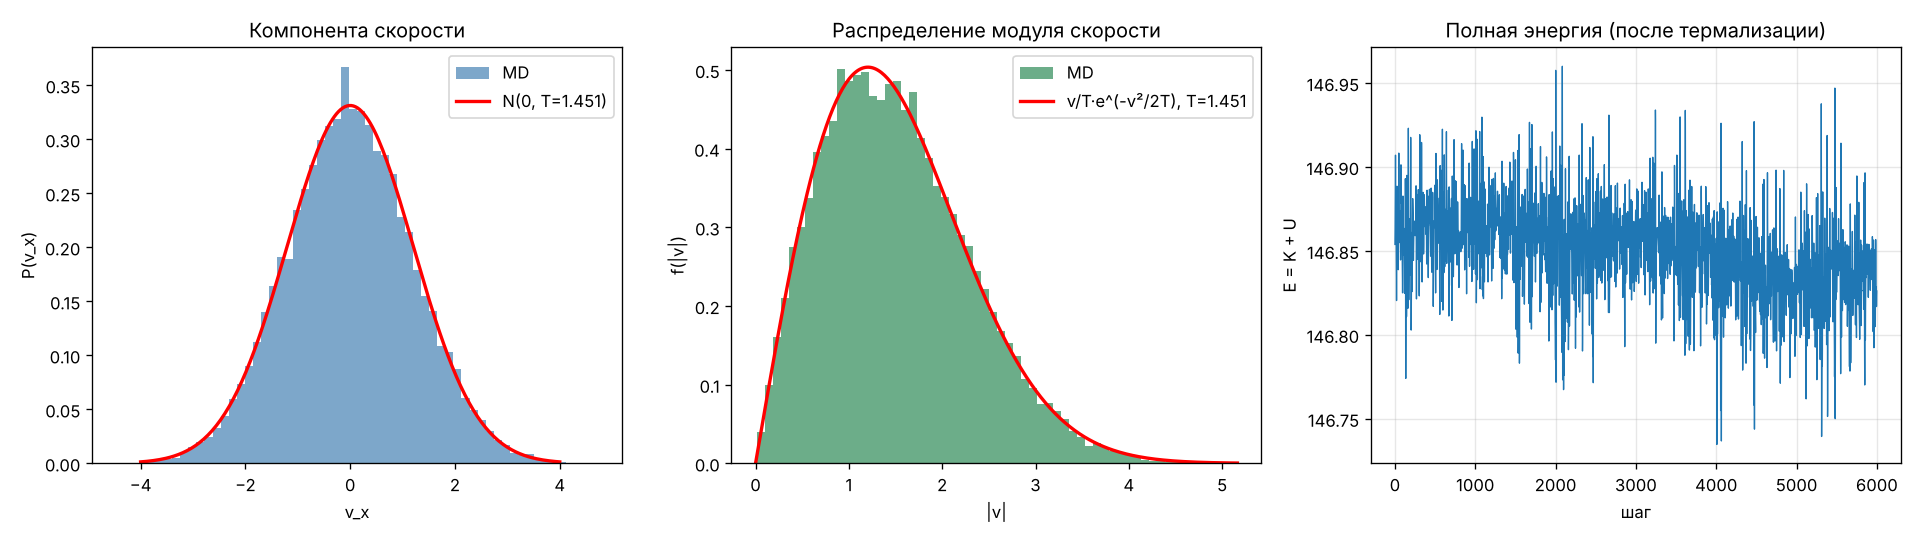
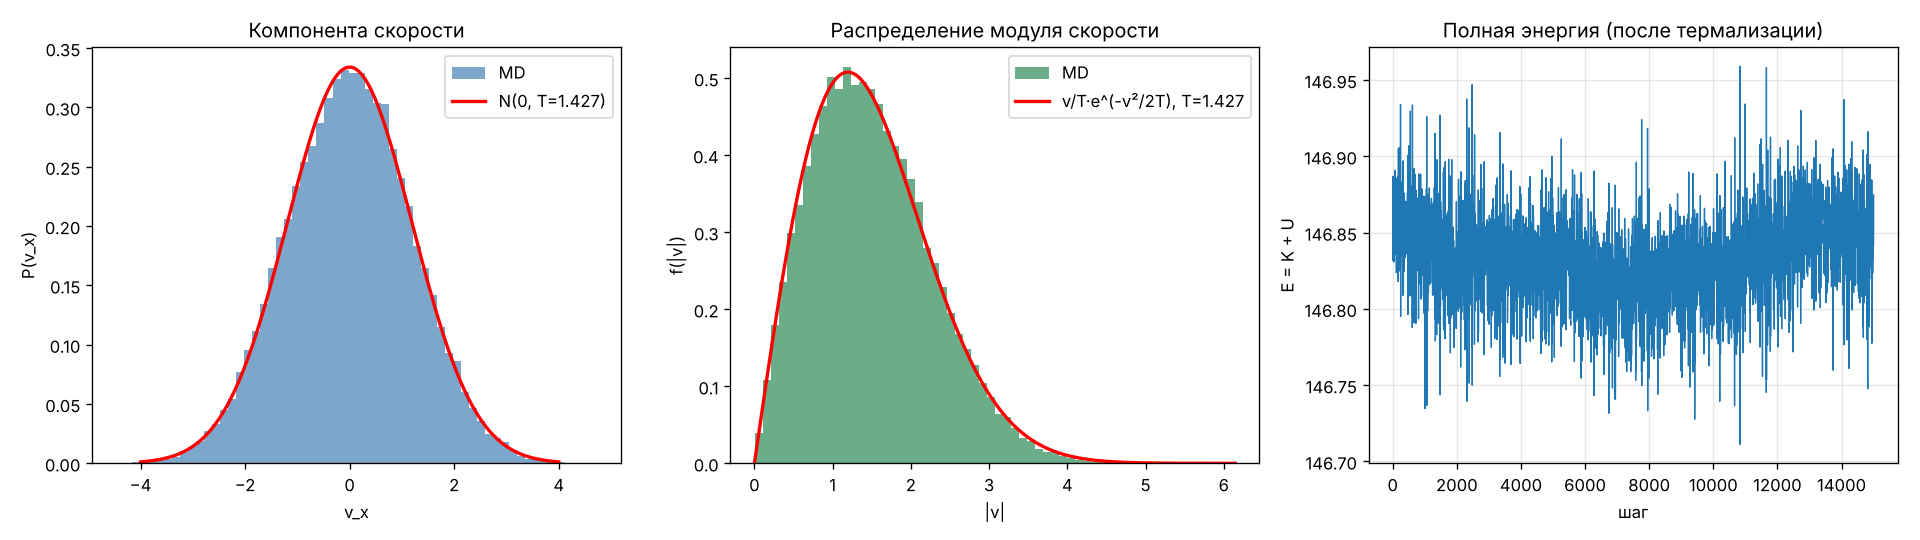
Финальная

diff --git a/README.md b/README.md
@@ -57,7 +57,7 @@ $$
 
 ### Равновесное распределение скоростей
 
-После термализации компонента скорости распределена по Гауссу, а модуль — по Рэлею. Статистика Колмогорова–Смирнова D ≈ 0.006.
+После термализации компонента скорости распределена по Гауссу, а модуль — по Рэлею. Статистика Колмогорова–Смирнова D ≈ 0.01, средние величины совпадают с теорией с точностью лучше 1 %.
 
 <p align="center">
   <img src="docs/img/md_lj_2d_maxwell.png" width="900" alt="Распределение скоростей и полная энергия">
